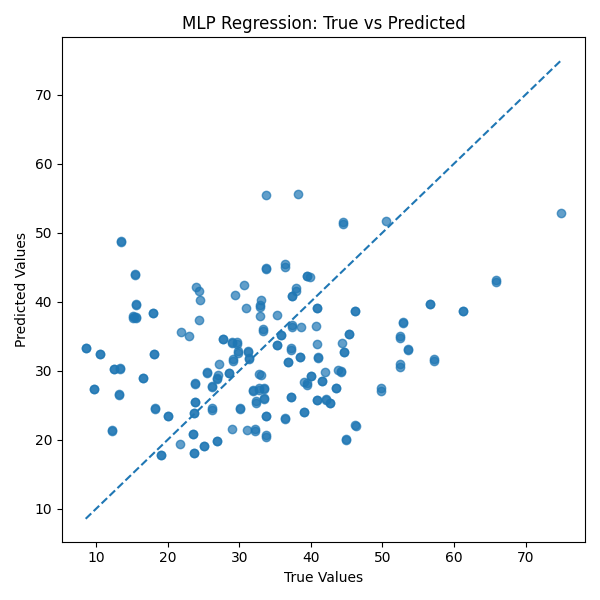
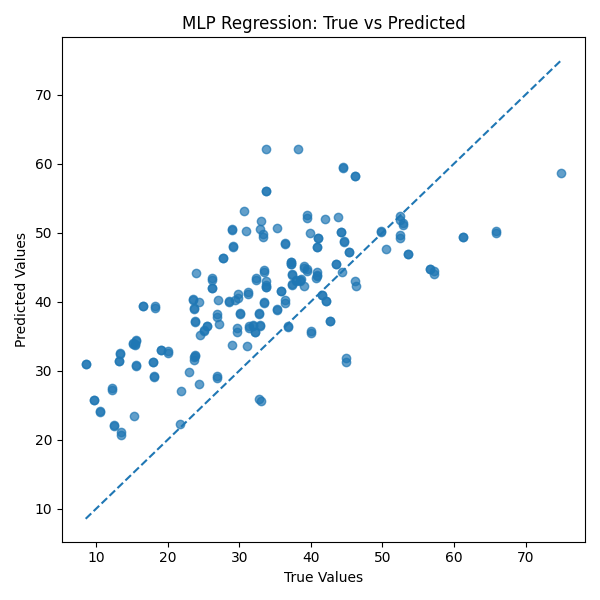
complete hw1 report and improve mlp

diff --git a/hw1/src/mlp_regression.py b/hw1/src/mlp_regression.py
@@ -1,4 +1,4 @@
-import numpy as np
+import copy
 import torch
 import torch.nn as nn
 from sklearn.metrics import mean_squared_error
@@ -8,43 +8,83 @@ class MLPRegressor(nn.Module):
     def __init__(self, input_dim):
         super().__init__()
         self.net = nn.Sequential(
-            nn.Linear(input_dim, 64),
+            nn.Linear(input_dim, 32),
             nn.ReLU(),
-            nn.Linear(64, 32),
+            nn.Linear(32, 16),
             nn.ReLU(),
-            nn.Linear(32, 1)
+            nn.Linear(16, 1)
         )
 
     def forward(self, x):
         return self.net(x)
 
 
-def run_mlp_regression(X_train, X_test, y_train, y_test, epochs=300, lr=0.001):
+def run_mlp_regression(
+    X_train,
+    X_test,
+    y_train,
+    y_test,
+    y_train_scaled,
+    y_scaler,
+    epochs=1000,
+    lr=0.001
+):
     device = torch.device("cuda" if torch.cuda.is_available() else "cpu")
 
-    X_train_tensor = torch.tensor(X_train, dtype=torch.float32).to(device)
+    # 从训练集里再切一部分做验证集
+    val_ratio = 0.1
+    split_idx = int(len(X_train) * (1 - val_ratio))
+
+    X_tr = X_train[:split_idx]
+    X_val = X_train[split_idx:]
+    y_tr = y_train_scaled[:split_idx]
+    y_val = y_train_scaled[split_idx:]
+
+    X_tr_tensor = torch.tensor(X_tr, dtype=torch.float32).to(device)
+    X_val_tensor = torch.tensor(X_val, dtype=torch.float32).to(device)
     X_test_tensor = torch.tensor(X_test, dtype=torch.float32).to(device)
-    y_train_tensor = torch.tensor(y_train, dtype=torch.float32).to(device)
+
+    y_tr_tensor = torch.tensor(y_tr, dtype=torch.float32).to(device)
+    y_val_tensor = torch.tensor(y_val, dtype=torch.float32).to(device)
 
     model = MLPRegressor(input_dim=X_train.shape[1]).to(device)
     criterion = nn.MSELoss()
-    optimizer = torch.optim.Adam(model.parameters(), lr=lr)
+    optimizer = torch.optim.Adam(model.parameters(), lr=lr, weight_decay=1e-4)
 
-    model.train()
+    best_val_loss = float("inf")
+    best_model_state = None
+
     for epoch in range(epochs):
+        model.train()
         optimizer.zero_grad()
-        outputs = model(X_train_tensor)
-        loss = criterion(outputs, y_train_tensor)
-        loss.backward()
+        train_pred = model(X_tr_tensor)
+        train_loss = criterion(train_pred, y_tr_tensor)
+        train_loss.backward()
         optimizer.step()
 
-        if (epoch + 1) % 50 == 0:
-            print(f"Epoch [{epoch+1}/{epochs}], Loss: {loss.item():.4f}")
+        model.eval()
+        with torch.no_grad():
+            val_pred = model(X_val_tensor)
+            val_loss = criterion(val_pred, y_val_tensor)
+
+        if val_loss.item() < best_val_loss:
+            best_val_loss = val_loss.item()
+            best_model_state = copy.deepcopy(model.state_dict())
+
+        if (epoch + 1) % 100 == 0:
+            print(
+                f"Epoch [{epoch+1}/{epochs}], "
+                f"Train Loss: {train_loss.item():.6f}, "
+                f"Val Loss: {val_loss.item():.6f}"
+            )
+
+    model.load_state_dict(best_model_state)
 
     model.eval()
     with torch.no_grad():
-        y_pred = model(X_test_tensor).cpu().numpy()
+        y_pred_scaled = model(X_test_tensor).cpu().numpy()
 
+    y_pred = y_scaler.inverse_transform(y_pred_scaled)
     mse = mean_squared_error(y_test, y_pred)
 
     return model, y_pred, mse

diff --git a/hw1/main.py b/hw1/main.py
@@ -12,16 +12,24 @@ def main():
 
     ensure_dir(results_dir)
 
-    df, X_train, X_test, y_train, y_test, scaler = load_and_split_data(data_path)
+    (
+        df,
+        X_train,
+        X_test,
+        y_train,
+        y_test,
+        y_train_scaled,
+        y_test_scaled,
+        x_scaler,
+        y_scaler,
+    ) = load_and_split_data(data_path)
 
     print("Data shape:", df.shape)
     print("Train size:", X_train.shape[0])
     print("Test size:", X_test.shape[0])
 
-    # 相关性图
     plot_correlation_heatmap(df, os.path.join(results_dir, "corr_heatmap.png"))
 
-    # 线性回归
     lr_model, lr_pred, lr_mse = run_linear_regression(X_train, X_test, y_train, y_test)
     print(f"Linear Regression Test MSE: {lr_mse:.4f}")
     plot_true_vs_pred(
@@ -31,8 +39,16 @@ def main():
         "Linear Regression: True vs Predicted"
     )
 
-    # MLP
-    mlp_model, mlp_pred, mlp_mse = run_mlp_regression(X_train, X_test, y_train, y_test)
+    mlp_model, mlp_pred, mlp_mse = run_mlp_regression(
+        X_train,
+        X_test,
+        y_train,
+        y_test,
+        y_train_scaled,
+        y_scaler,
+        epochs=1000,
+        lr=0.001
+    )
     print(f"MLP Regression Test MSE: {mlp_mse:.4f}")
     plot_true_vs_pred(
         y_test.flatten(),

diff --git a/hw1/src/data_process.py b/hw1/src/data_process.py
@@ -1,12 +1,10 @@
 import pandas as pd
-import numpy as np
 from sklearn.preprocessing import StandardScaler
 
 
 def load_and_split_data(csv_path):
     df = pd.read_csv(csv_path)
 
-    # 默认最后一列是目标值
     X = df.iloc[:, :-1].values
     y = df.iloc[:, -1].values.reshape(-1, 1)
 
@@ -17,8 +15,22 @@ def load_and_split_data(csv_path):
     y_train = y[:split_idx]
     y_test = y[split_idx:]
 
-    scaler = StandardScaler()
-    X_train_scaled = scaler.fit_transform(X_train)
-    X_test_scaled = scaler.transform(X_test)
+    x_scaler = StandardScaler()
+    X_train_scaled = x_scaler.fit_transform(X_train)
+    X_test_scaled = x_scaler.transform(X_test)
 
-    return df, X_train_scaled, X_test_scaled, y_train, y_test, scaler
+    y_scaler = StandardScaler()
+    y_train_scaled = y_scaler.fit_transform(y_train)
+    y_test_scaled = y_scaler.transform(y_test)
+
+    return (
+        df,
+        X_train_scaled,
+        X_test_scaled,
+        y_train,
+        y_test,
+        y_train_scaled,
+        y_test_scaled,
+        x_scaler,
+        y_scaler,
+    )

diff --git a/hw1/report/第一次作业报告.md b/hw1/report/第一次作业报告.md
@@ -1,0 +1,101 @@
+# 第一次作业报告
+
+## 1. 实验目标
+
+本次实验使用混凝土抗压强度数据集，完成一个回归预测任务。目标是根据给定的原材料组成和龄期等特征，预测混凝土的抗压强度（csMPa）。本实验分别采用线性回归模型和多层感知机（MLP）模型进行建模，并比较两者在测试集上的表现。
+
+## 2. 数据集介绍
+
+本实验使用 Concrete compressive strength dataset。根据作业要求：
+
+- 数据集包含 1030 个样本；
+- 输入为 8 个特征；
+- 输出为 1 个目标值，即混凝土抗压强度；
+- 数据划分方式为前 80% 作为训练集，后 20% 作为测试集；
+- 评价指标为均方误差（MSE）。
+
+## 3. 数据预处理
+
+为了提高模型训练效果，本实验进行了如下预处理：
+
+1. 使用 pandas 读取 CSV 数据；
+2. 将前 8 列作为输入特征，最后 1 列作为预测目标；
+3. 按照作业要求，将前 80% 数据作为训练集，后 20% 数据作为测试集；
+4. 对输入特征 X 进行标准化处理；
+5. 在改进的 MLP 实验中，对输出目标 y 也进行了标准化处理，以提高神经网络训练稳定性。
+
+## 4. 特征分析
+
+实验中计算了各变量之间的相关性，并绘制了相关性热力图。通过热力图可以观察不同输入特征与目标值 csMPa 之间的相关关系，也可以辅助分析哪些特征可能对预测结果影响更大。
+
+相关性分析结果保存在：
+
+- `hw1/results/corr_heatmap.png`
+
+## 5. 模型方法
+
+### 5.1 线性回归
+
+首先采用线性回归作为基线模型。线性回归结构简单、训练速度快，可以作为评价神经网络模型效果的参考基准。
+
+### 5.2 多层感知机（MLP）
+
+本实验采用一个简单的前馈神经网络进行回归预测，网络结构如下：
+
+- 输入层：8 维
+- 第一隐藏层：64 个神经元，激活函数 ReLU
+- 第二隐藏层：32 个神经元，激活函数 ReLU
+- 输出层：1 维
+
+训练设置如下：
+
+- 损失函数：均方误差损失（MSELoss）
+- 优化器：Adam
+- 学习率：0.001
+- 训练轮数：1000
+
+## 6. 实验结果
+
+测试集结果如下：
+
+| 模型 | 测试集 MSE |
+|---|---:|
+| 线性回归 | 75.7439 |
+| MLP | 149.9778 |
+
+同时，实验还绘制了模型预测值与真实值之间的散点图，结果保存在：
+
+- `hw1/results/linear_pred_vs_true.png`
+- `hw1/results/mlp_pred_vs_true.png`
+
+## 7. 结果分析
+
+从实验结果可以看出，线性回归模型在测试集上的表现优于当前设置下的 MLP 模型。线性回归的测试集 MSE 为 75.7439，而 MLP 的测试集 MSE 为 149.9778。
+
+这说明在当前数据集和当前参数设置下，线性回归已经能够较好地拟合数据，而神经网络虽然具有更强的非线性表达能力，但由于模型参数、训练策略以及数据规模等因素的影响，其优势尚未充分体现。
+
+与初始版本相比，改进后的 MLP 已经取得了一定提升，说明对目标值进行标准化和增加训练轮数是有效的。但整体上，MLP 仍未超过线性回归模型。
+
+可能原因包括：
+
+1. 当前网络结构和参数仍未达到最优；
+2. 数据集规模相对有限，复杂模型容易训练不充分；
+3. 该任务中的输入输出关系可能具有较强的线性成分，因此线性回归已能取得较好结果。
+
+## 8. 总结
+
+本次实验完成了基于混凝土抗压强度数据集的回归预测任务。实验中实现了线性回归和多层感知机两种方法，并按照作业要求采用前 80% 数据训练、后 20% 数据测试，使用均方误差作为评价指标。
+
+实验结果表明，在线性回归和当前设置下的 MLP 模型中，线性回归取得了更好的测试集表现。通过本次实验，我进一步熟悉了回归问题的数据预处理、模型构建、训练评估以及结果可视化流程。
+
+## 9. 附件说明
+
+本次作业目录结构如下：
+
+- `hw1/main.py`：主程序入口
+- `hw1/src/data_process.py`：数据读取与预处理
+- `hw1/src/linear_regression.py`：线性回归模型
+- `hw1/src/mlp_regression.py`：MLP 模型
+- `hw1/src/utils.py`：绘图与工具函数
+- `hw1/results/`：实验结果图像
+- `hw1/report/第一次作业报告.md`：实验报告
